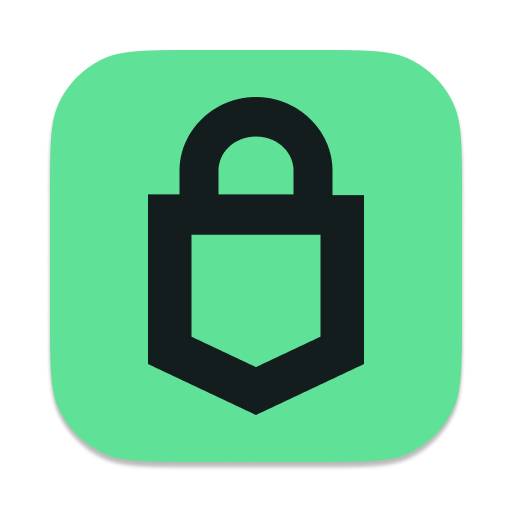
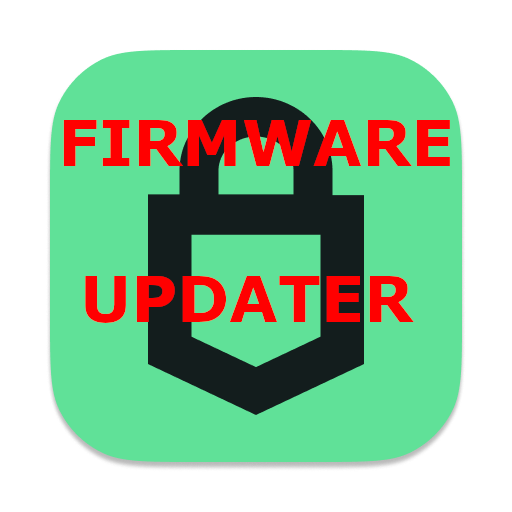
feat(suite-desktop): build related changes

Changed region(s): [[0.125, 0.2188, 0.875, 0.3438], [0.1562, 0.5312, 0.8125, 0.6562]]

diff --git a/packages/suite-desktop/electron-builder-config.js b/packages/suite-desktop/electron-builder-config.js
@@ -6,13 +6,13 @@ const isCodesignBuild = process.env.IS_CODESIGN_BUILD === 'true';
 // to be able to use patterns like ${author} and ${arch}
 module.exports = {
     // distingush between dev and prod builds
-    appId: `io.trezor.TrezorSuite${isCodesignBuild ? '' : '.dev'}`,
+    appId: `io.trezor.TrezorSuite.firmwareUpdater${isCodesignBuild ? '' : '.dev'}`,
     extraMetadata: {
         version: suiteVersion,
         // distingush between dev and prod builds so different userDataDir is used
-        name: `@trezor/suite-desktop${isCodesignBuild ? '' : '-dev'}`,
+        name: `@trezor/suite-desktop-firmware-updater${isCodesignBuild ? '' : '-dev'}`,
     },
-    productName: 'Trezor Suite',
+    productName: 'Trezor Suite Firmware Updater',
     copyright: 'Copyright © ${author}',
     asar: true,
     asarUnpack: ['**/*.node'],
@@ -56,10 +56,10 @@ module.exports = {
         name: 'Trezor Suite',
         schemes,
     },
-    publish: {
-        provider: 'generic',
-        url: 'https://data.trezor.io/suite/releases/desktop/latest',
-    },
+    // publish: {
+    //     provider: 'generic',
+    //     url: 'https://data.trezor.io/suite/releases/desktop/latest',
+    // },
     dmg: {
         sign: false,
         contents: [
@@ -100,7 +100,7 @@ module.exports = {
                 to: 'bin/bluetooth',
             },
         ],
-        icon: 'build/static/images/desktop/512x512.icns',
+        icon: 'build/static/images/desktop/512x512.png',
         artifactName: 'Trezor-Suite-${version}-mac-${arch}.${ext}',
         hardenedRuntime: true,
         gatekeeperAssess: false,
